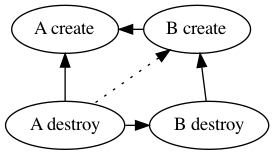
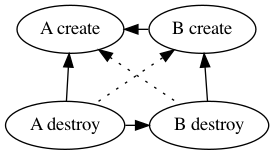
update destroying doc to show show more CBD detail
Update the create-before-destroy cases in the destroying.md document.

diff --git a/docs/destroying.md b/docs/destroying.md
@@ -209,6 +209,7 @@ digraph replacement {
     }
 
     a -> a_d [dir=back];
+    a -> b_d;
     b -> a_d [dir=back];
     b -> b_d;
 }
@@ -216,7 +217,8 @@ digraph replacement {
 
 
 Order of operations:
-1. `B` is destroyed AND `A` is created
+1. `B` is destroyed
+2. `A` is created
 1. `B` is created
 1. `A` is destroyed
 
@@ -314,6 +316,7 @@ digraph replacement {
     }
 
     a -> a_d;
+    a -> b_d [style=dotted];
     b -> a_d [style=dotted];
     b -> b_d [dir=back];
 }
@@ -340,6 +343,7 @@ digraph replacement {
     }
 
     a -> a_d [dir=back];
+    a -> b_d [dir=back, style=dotted];
     b -> a_d [dir=back, style=dotted];
     b -> b_d [dir=back];
 }
